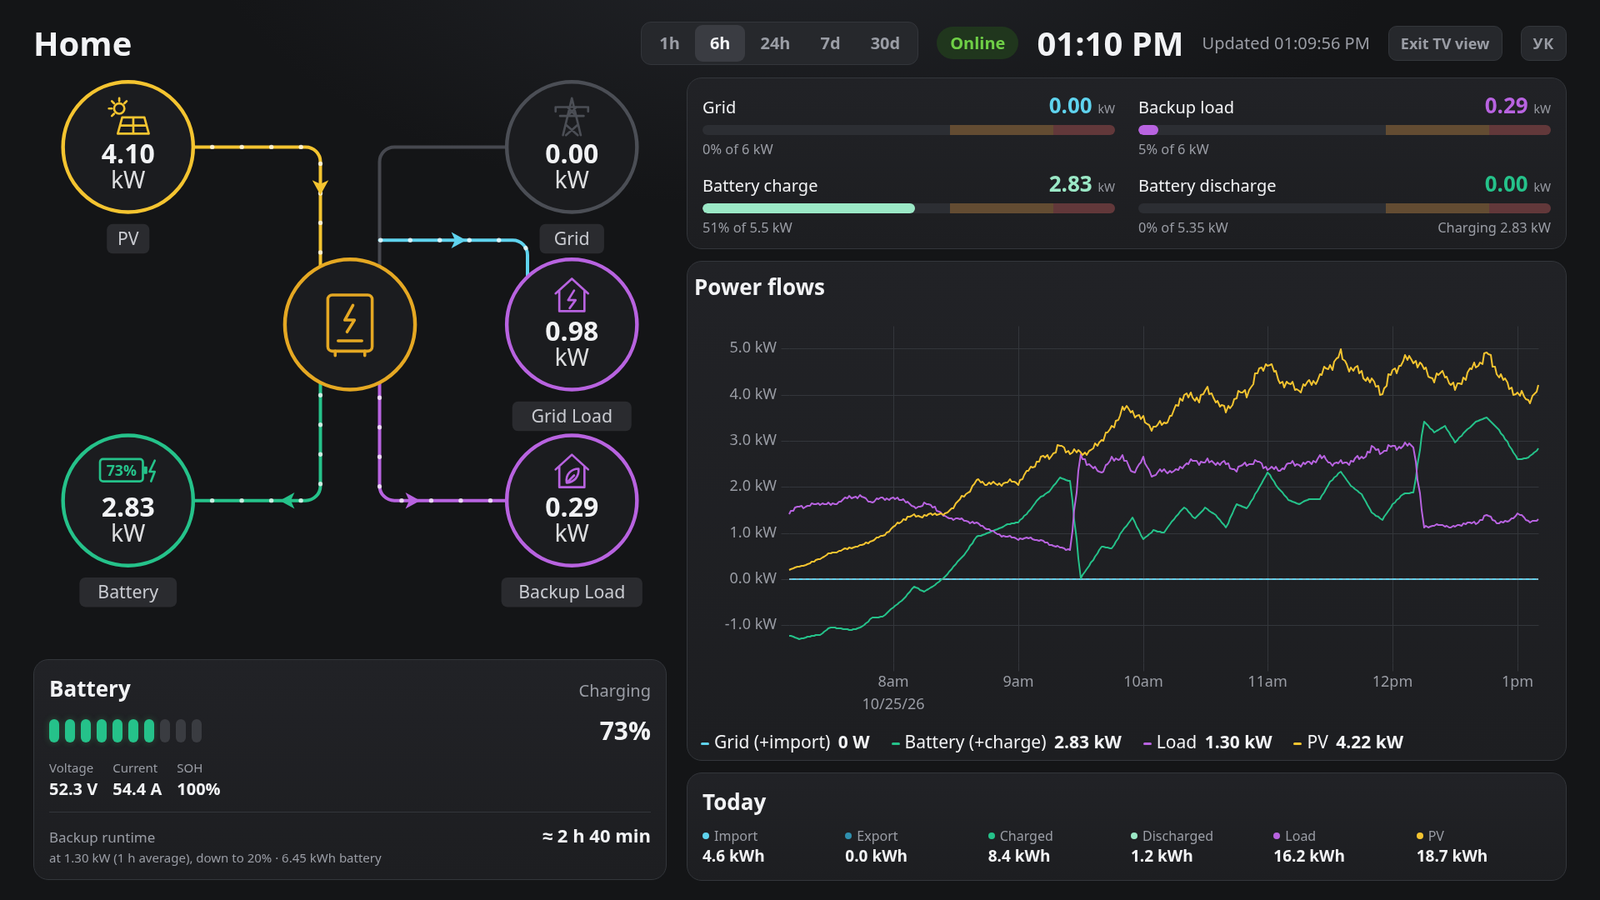
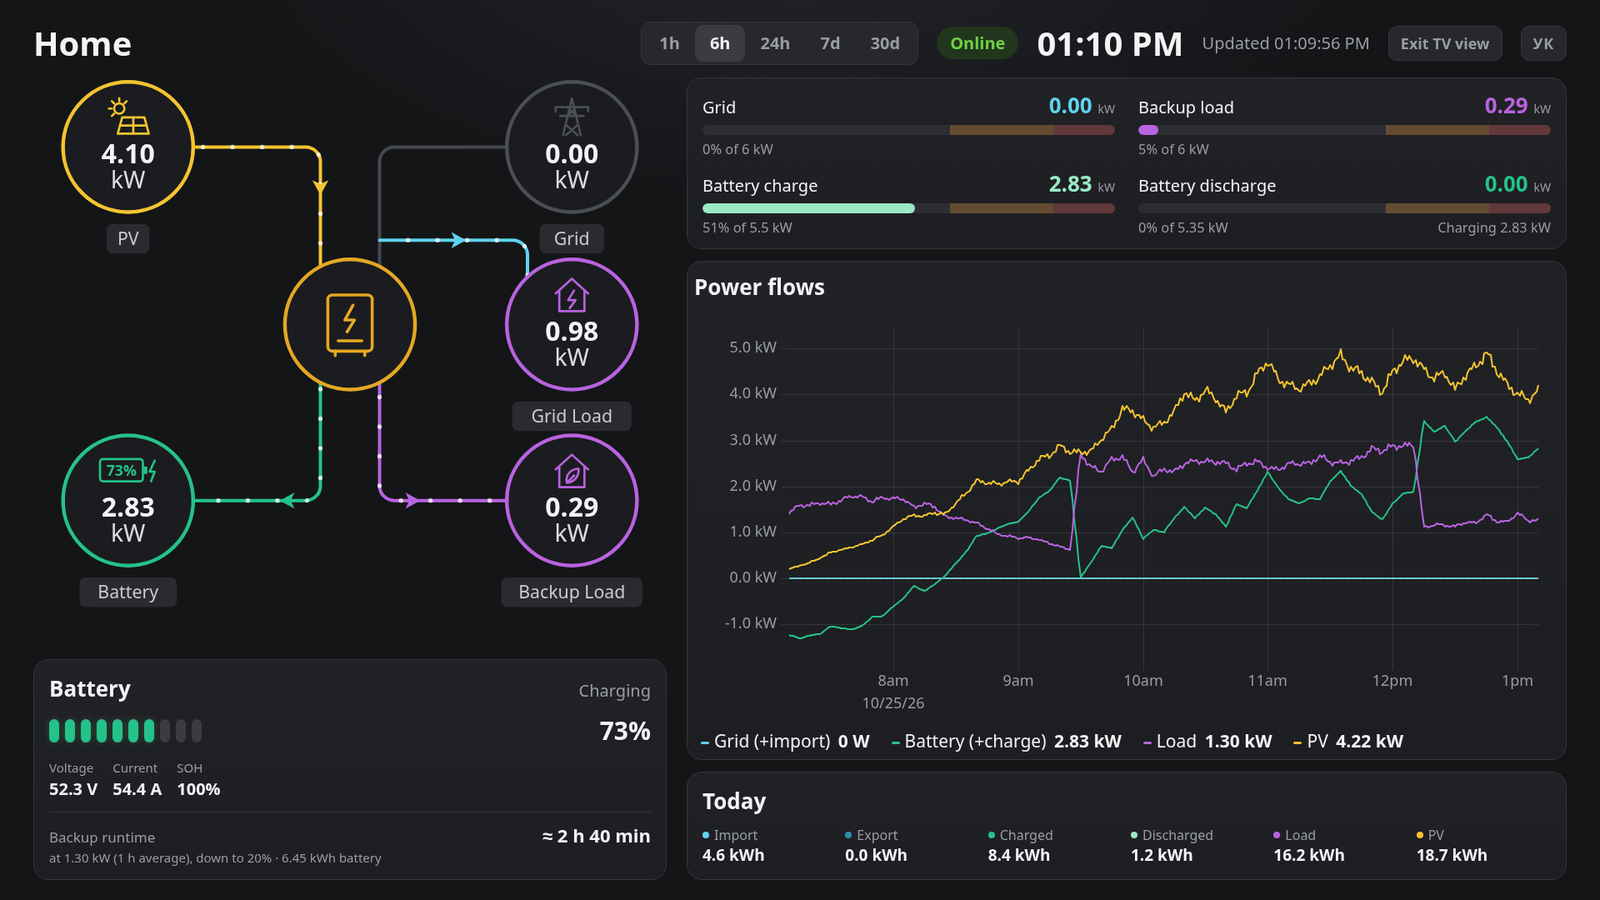
TV view: the chart fills the right column, so both columns end level whatever the gauge card's height

diff --git a/web/frontend/src/charts/TimeChart.tsx b/web/frontend/src/charts/TimeChart.tsx
@@ -84,12 +84,14 @@ const hexA = (hex: string, a: number) => {
   return `rgba(${n >> 16},${(n >> 8) & 255},${n & 255},${a})`;
 };
 
-export function TimeChart({ data, series, height = 220, zeroLine = false, minY, maxY, font = 12, inline = false }: {
+export function TimeChart({ data, series, height = 220, zeroLine = false, minY, maxY, font = 12, inline = false, fill = false }: {
   data: HistoryPayload; series: SeriesDef[]; height?: number; zeroLine?: boolean; minY?: number; maxY?: number;
   /** Axis label size in px; the axis widths scale with it (for the TV page). */
   font?: number;
   /** One-line legend with the latest values (wall display). */
   inline?: boolean;
+  /** Take the height the parent leaves (the TV page keeps its columns level this way); `height` is then the fallback. */
+  fill?: boolean;
 }) {
   const box = useRef<HTMLDivElement>(null);
   const plot = useRef<uPlot | null>(null);
@@ -110,7 +112,7 @@ export function TimeChart({ data, series, height = 220, zeroLine = false, minY, 
     const k = font / 12;
     const opts: Options = {
       width: el.clientWidth || 600,
-      height,
+      height: fill ? el.clientHeight || height : height,
       legend: { show: false },
       cursor: { drag: { x: false, y: false }, points: { size: 7 } },
       scales: {
@@ -153,19 +155,19 @@ export function TimeChart({ data, series, height = 220, zeroLine = false, minY, 
       },
     };
     plot.current = new uPlot(opts, aligned, el);
-    const ro = new ResizeObserver(() => plot.current?.setSize({ width: el.clientWidth, height }));
+    const ro = new ResizeObserver(() => plot.current?.setSize({ width: el.clientWidth, height: fill ? el.clientHeight || height : height }));
     ro.observe(el);
     return () => { ro.disconnect(); plot.current?.destroy(); plot.current = null; };
     // Rebuild only when the series definition changes; data updates go through setData.
     // eslint-disable-next-line react-hooks/exhaustive-deps
-  }, [series, height, zeroLine, leftUnit, rightUnit, font, lang]);
+  }, [series, height, fill, zeroLine, leftUnit, rightUnit, font, lang]);
 
   useEffect(() => { plot.current?.setData(aligned); }, [aligned]);
 
   const empty = data.t.length === 0;
   return (
-    <div class="tchart">
-      <div ref={box} class="tchart-plot" style={{ minHeight: `${height}px` }} />
+    <div class={`tchart ${fill ? 'tchart-fill' : ''}`}>
+      <div ref={box} class="tchart-plot" style={fill ? undefined : { minHeight: `${height}px` }} />
       {empty && <div class="tchart-empty">{t('No data in this range')}</div>}
       {inline ? (
         <div class="legend-inline">

diff --git a/web/frontend/src/pages/Tv.tsx b/web/frontend/src/pages/Tv.tsx
@@ -60,8 +60,8 @@ export function Tv({ live, now }: { live: LiveState; now: number }) {
   const outage = hasPoint && (gridLost(fields) || !!events?.outage_now);
   const hoursLeft = runtimeHours(fields?.battery_soc, info?.backup.eps_dod_pct ?? info?.battery.overdischarge_soc,
                                  info?.battery.capacity_kwh, fields?.total_load_power);
-  const chart = (title: string, series: typeof POWER, height: number, opts: { zeroLine?: boolean; minY?: number; maxY?: number } = {}) => (
-    <Card title={title} class="chart-card">
+  const chart = (title: string, series: typeof POWER, height: number, opts: { zeroLine?: boolean; minY?: number; maxY?: number; fill?: boolean } = {}) => (
+    <Card title={title} class={`chart-card ${opts.fill ? 'chart-fill' : ''}`}>
       {h ? <TimeChart data={h} series={series} height={height} font={18} inline {...opts} />
         : hist.error ? <div class="chart-error">{hist.error}</div> : <Skeleton h={height} />}
     </Card>
@@ -73,7 +73,7 @@ export function Tv({ live, now }: { live: LiveState; now: number }) {
     ? <BatteryCard fields={fields} extra={<Runtime live={live} info={info} avgLoad={avgLoad} />} />
     : <Card title="Battery"><Skeleton h={100} /></Card>;
   const today = <div class="tv-today">{fields ? <TodayRow fields={fields} /> : <Card title="Today"><Skeleton h={60} /></Card>}</div>;
-  const power_ = chart('Power flows', POWER, 496, { zeroLine: true });
+  const power_ = chart('Power flows', POWER, 400, { zeroLine: true, fill: true });     // fills the rest of the column, so it ends level with the left one
 
   return (
     <div class="tv-viewport">

diff --git a/web/frontend/src/styles.css b/web/frontend/src/styles.css
@@ -174,6 +174,9 @@ button { font: inherit; color: inherit; }
 .chart-error { color: #f0a9a9; padding: 40px 0; text-align: center; }
 .tchart { position: relative; }
 .tchart-plot { width: 100%; }
+/* fill: the plot takes the height left by the parent (it cannot push the parent taller) */
+.tchart-fill { display: flex; flex-direction: column; flex: 1; min-height: 0; }
+.tchart-fill .tchart-plot { flex: 1 1 0; min-height: 0; overflow: hidden; }
 .tchart-empty { position: absolute; inset: 0 0 auto 0; height: 200px; display: grid; place-items: center; color: var(--c-muted); pointer-events: none; }
 .legend { width: 100%; border-collapse: collapse; font-size: 0.78rem; margin-top: 6px; font-variant-numeric: tabular-nums; }
 .legend th { color: var(--c-muted); font-weight: 500; text-align: right; padding: 2px 6px; }
@@ -512,6 +515,7 @@ html.tv-mode, html.tv-mode body { overflow: hidden; height: 100%; font-size: 20p
 .tv-grid .gbar-sub { font-size: 0.82rem; }
 .tv-today .today { grid-template-columns: repeat(6, 1fr); }
 .tv-stage .chart-card { padding: 12px 8px 8px; }
+.tv-stage .chart-fill { flex: 1; min-height: 0; display: flex; flex-direction: column; }
 .legend-inline { display: flex; flex-wrap: wrap; gap: 4px 26px; font-size: 1.05rem; margin: 6px 0 0 8px; font-variant-numeric: tabular-nums; }
 .legend-inline strong { margin-left: 4px; }
 .tv-stage .card h2 { font-size: 1.3rem; }
